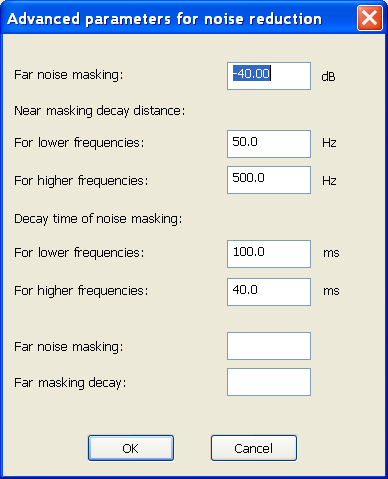
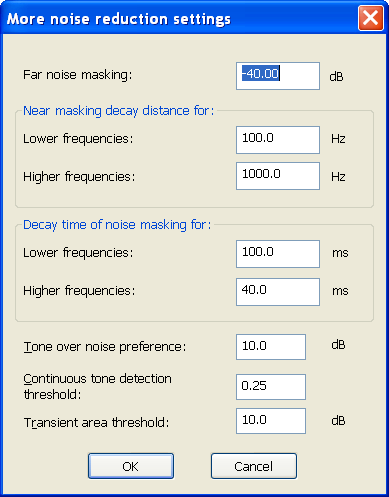
Changed files
Selection static size increased.
"More noise reduction" dialog title changed.

diff --git a/hlp/html/Process/process_noise_reduction.htm b/hlp/html/Process/process_noise_reduction.htm
@@ -33,12 +33,6 @@ range is from -120 to -10 dB.</span></p>
 aggressive should be noise suppression. The allowed range is from 0.1 to 3.</span></p>
 <p><span lang="en-us">&quot;<b>Maximum noise reduction</b>&quot; - maximum 
 suppression of noise. The allowed range is from 0 to 100 dB. </span></p>
-<p><span lang="en-us">&quot;<b>Tone over noise preference</b>&quot; - how much 
-tonal signal should be given preference over noise-like. The allowed range is 
-from 0 to 20 dB.</span></p>
-<p><span lang="en-us">&quot;<b>Continuous tone detection threshold</b>&quot; - 
-criterion to distinguish tone from noise. The allowed range is from 0 to 1.</span></p>
-<p><span lang="en-us">&quot;<b>Transient area threshold</b>&quot; - TODO.</span></p>
 <p><span lang="en-us">&quot;<b>Set default</b>&quot; button reverts all the values to defaults.</span></p>
 <p><span lang="en-us">&quot;<b>Revert</b>&quot; button returns all values to those when the 
 dialog was open.</span></p>
@@ -76,7 +70,15 @@ allowed range is from 1 to 1000 ms, default is 100.</p>
 <p>&quot;<b>Decay time of noise masking for higher frequencies</b>&quot; - specifies how 
 quickly the masking function decays with time, on the lower frequencies. The 
 allowed range is from 1 to 1000 ms, default is 40.</p>
-<p>&quot;<b>Far masking decay</b>&quot; - TODO</p>
+<p><span lang="en-us">&quot;<b>Tone over noise preference</b>&quot; - how much 
+tonal signal should be given preference over noise-like. The allowed range is 
+from 0 to 20 dB.</span></p>
+<p><span lang="en-us">&quot;<b>Continuous tone detection threshold</b>&quot; - 
+criterion to distinguish tone from noise. The allowed range is from 0 to 1.</span></p>
+<p><span lang="en-us">&quot;<b>Transient area threshold</b>&quot; - change of 
+amplitude from one to another FFT calculation which is considered signal 
+transient. Such point is not considered continuous tone. The allowed range is 
+from 2 to 30 dB.</span></p>
 
 <h4><a name="algorithm"></a>Noise reduction algorithm</h4>
 <P>The noise reduction process involves decomposing the sound to a specified 
@@ -90,10 +92,10 @@ noise, should it be suppressed and for how much. Where the masking function is
 greater than noise threshold, it's considered useful sound; where it's below, 
 it's considered noise and is reduced. Logarithmic difference between masking 
 function and noise threshold is multiplied by aggressiveness factor. This 
-specifies how much the bend power should be suppressed.</P>
+specifies how much the band power should be suppressed. Special care is taken to 
+avoid suppressing sound attack (sudden increase in amplitude).</P>
 <P>Then the signal is synthesized 
-back from the adjusted FFT data. Special care is taken to avoid suppressing 
-attack <span lang="en-us">envelope</span>.</P>
+back from the adjusted FFT data.</P>
 
 </body>
 
